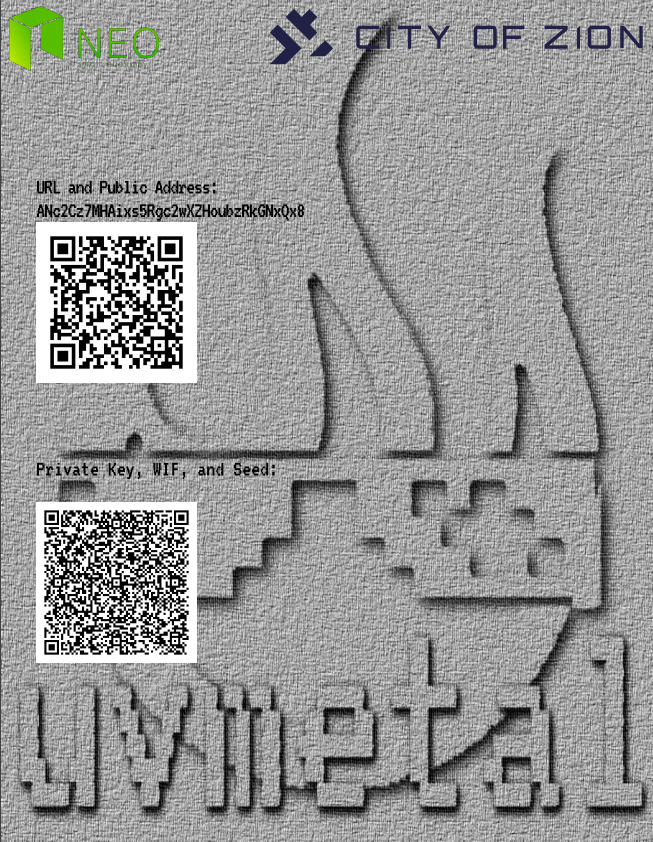
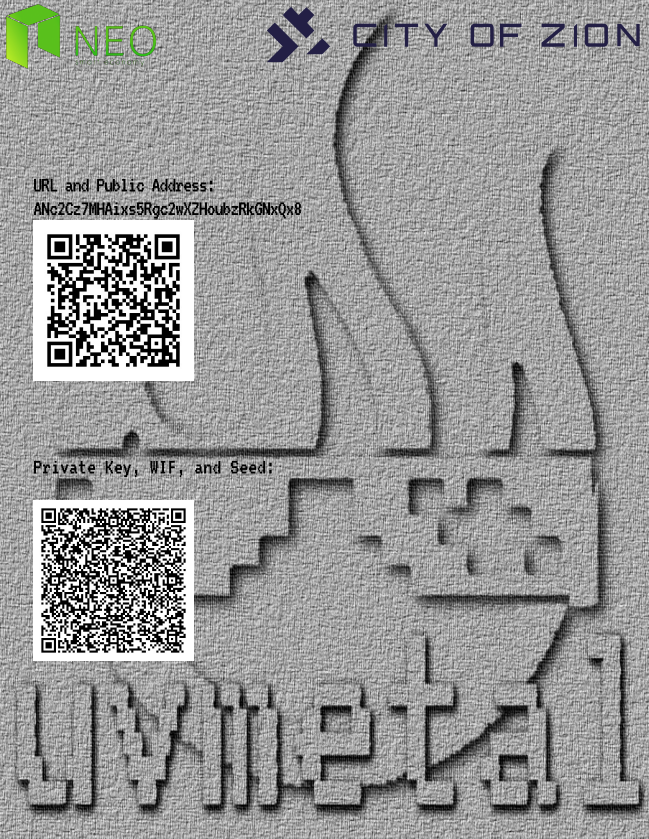
make text readable

diff --git a/template.html b/template.html
@@ -28,8 +28,8 @@
 
     <div class="" style="position:absolute;z-index:1;left: 33px;top: 100px;width:250px;height:150px;font-size: 21px;letter-spacing: -1;">
         <br><br><br>
-        URL and Public Address:
-        **PUBLIC**
+        <div style="background-color:#ffffff;">URL and Public Address: **PUBLIC**</div>
+
 
         <img src="./public.png"
             style="width:150;height:150px;"
@@ -38,7 +38,7 @@
 
     <div class="" style="position:absolute;left:33px;top:430px;width:250px;height:250px;" >
 
-        <div style="font-family:'VT323',margin-top:0px;font-size:21px;padding-bottom:20px" >
+        <div style="background-color:#ffffff;font-family:'VT323',margin-top:0px;font-size:21px;padding-bottom:20px" >
             Private Key, WIF, and Seed:
         </div>
 
